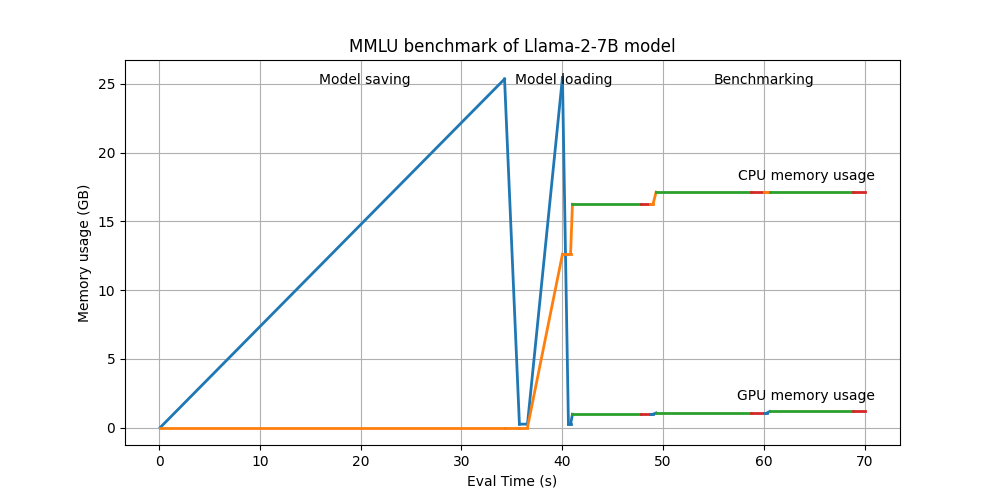
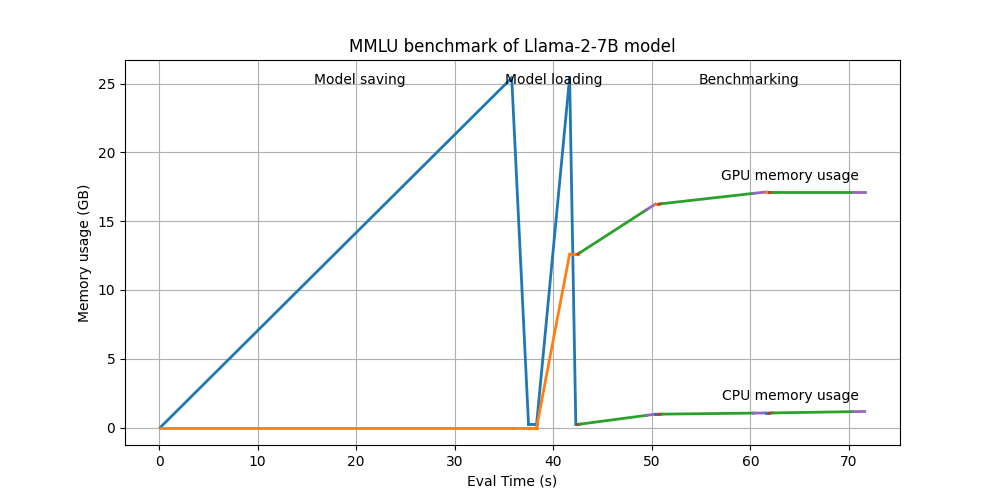
update plot

diff --git a/llava/extract_log_vqa.py b/llava/extract_log_vqa.py
@@ -6,7 +6,7 @@ def extract_originial_sentences(file_path):
         content = file.read()
         
     # Define the pattern to match the general format with a random string of varying lengths
-    pattern = r'\d{2}:\d{2}:\d{2}-\d{6} \d+\.\d+ [a-zA-Z_]+ .* \(cpu: \d+\.\d+ gpu: \d+\.\d+\) +run_mmlu\.py:\d+'
+    pattern = r'\d{2}:\d{2}:\d{2}-\d{6} \d+\.\d+ [a-zA-Z_]+ .* \(cpu: \d+\.\d+ gpu: \d+\.\d+\) +bench_vqa\.py:\d+'
     
     # Find all matches in the content
     matches = re.findall(pattern, content)
@@ -34,14 +34,14 @@ def extract_sentences(file_path):
     lines = content.split('\n')
     for line in lines:
         if 'totally take' in line:
-            pattern = r'\d{2}:\d{2}:\d{2}-\d{6} \d+\.\d+ (\w+) : totally take (\d+\.\d+) second .* \(cpu: (\d+\.\d+) gpu: (\d+\.\d+)\) +run_mmlu\.py:\d+'
-        elif 'run_mmlu' in line:
-            pattern = r'(\w){2}:\d{2}:\d{2}-\d{6} (\d+\.\d+) .* \(cpu: (\d+\.\d+) gpu: (\d+\.\d+)\) +run_mmlu\.py:\d+'
+            pattern = r'\d{2}:\d{2}:\d{2}-\d{6} \d+\.\d+ (\w+) : totally take (\d+\.\d+) second .* \(cpu: (\d+\.\d+) gpu: (\d+\.\d+)\) +bench_vqa\.py:\d+'
+        elif 'bench_vqa' in line:
+            pattern = r'(\w){2}:\d{2}:\d{2}-\d{6} (\d+\.\d+) .* \(cpu: (\d+\.\d+) gpu: (\d+\.\d+)\) +bench_vqa\.py:\d+'
         else:
             continue
         match = re.search(pattern, line)
         type_str = match.group(1)
-        mapped_value = mapping.get(type_str, 3)  # Default to -1 if not found
+        mapped_value = mapping.get(type_str, 3)  # Default to 3 if not found
         
         
         if 'totally take'  in line:
@@ -49,6 +49,7 @@ def extract_sentences(file_path):
             print("Match at index % s, % s" % (match.start(), match.end())) 
             print("Full match: % s" % (match.group(0))) 
             print("state match: % s" % (mapped_value)) 
+            print("state match: % s" % (match[2])) 
     # Define the pattern to match the general format with variations
     # pattern = r'\d{2}:\d{2}:\d{2}-\d{6} (\d+\.\d+) .* \(cpu: (\d+\.\d+) gpu: (\d+\.\d+)\) +run_mmlu\.py:\d+'
     
@@ -66,6 +67,7 @@ def extract_sentences(file_path):
         gpu_values.append(float(match[4]))
     
     return lengths, cpu_values, gpu_values, state
+
 
 def split_line(start_point, end_point,x_values):
     """
@@ -144,13 +146,12 @@ def plot_data(lengths, cpu_values, gpu_values,output_file, state):
             i = i + 3
         
         
-    plt.text(71,18,'GPU memory usage',horizontalalignment='right')
-    plt.text(71,2,'CPU memory usage',horizontalalignment='right')
+    plt.text(61,16,'GPU memory usage',horizontalalignment='right')
+    plt.text(61,2,'CPU memory usage',horizontalalignment='right')
+
     plt.text(25,25,'Model saving',horizontalalignment='right')
-
-
     plt.text(45,25,'Model loading',horizontalalignment='right')
-    plt.text(65,25,'Benchmarking',horizontalalignment='right')
+    plt.text(55,25,'Benchmarking',horizontalalignment='right')
     
     plt.xlabel('Eval Time (s)')
     plt.ylabel('Memory usage (GB)')
@@ -160,6 +161,7 @@ def plot_data(lengths, cpu_values, gpu_values,output_file, state):
 
     plt.savefig(output_file)
     plt.close()
+
 
 
 # Example usage

diff --git a/llava/bench_vqa.py b/llava/bench_vqa.py
@@ -66,13 +66,15 @@ class Logger:
 logger = Logger()
 
 class Timer:
-    def __init__(self):
+    def __init__(self, tag:str):
         self.time = []
+        self.tag = tag
         
     def start(self):
         self.temp = time.perf_counter()
     def end(self):
         self.time.append(time.perf_counter() - self.temp)
+        # logger.trace(f"{self.tag} : take {sum(self.time)} second ")
     def add(self, val:int):
         self.time.append(val)
     def result(self, msg: str):
@@ -107,9 +109,10 @@ def load_pretrained_model(model_name, update_model_file = True, use_meta_load = 
         model = LlavaForConditionalGeneration.from_pretrained(model_name)#,**kwargs)#, low_cpu_mem_usage=True, **kwargs)
         torch.save(model.state_dict(), filename)
         logger.trace('save model')
+        print(model.base_model_prefix) # model # len(model.base_model_prefix) == 0
         del model
         garbage_collect()
-    
+        
     # we use tensor parallel for loading llama
     
     if use_meta_load:
@@ -167,9 +170,9 @@ def extract_assistant_response(text):
     return ""
 
 def eval_model(args):
-    timer_encode = Timer()
-    timer_infer = Timer()
-    timer_decode = Timer()
+    timer_encode = Timer("encoding")
+    timer_infer = Timer("inference")
+    timer_decode = Timer("decoding")
 
     # Model
     disable_torch_init()
@@ -181,13 +184,13 @@ def eval_model(args):
     questions = [json.loads(q) for q in open(os.path.expanduser(args.question_file), "r")]
     questions = get_chunk(questions, args.num_chunks, args.chunk_idx)
     
+    logger.trace(f'start evaluation: {model_name}')
     run_results = {}
-
     for line in tqdm(questions):
 
         timer_encode.start()
         idx = line["question_id"]
-        if idx == 5:
+        if idx == 10:
             break
         image_file = line["image"]
         qs = line["text"]

diff --git a/llama/run_mmlu.py b/llama/run_mmlu.py
@@ -192,7 +192,7 @@ def load(ckpt_dir, model_type, update_model_file = True, use_meta_load = True):
     n_gpus = torch.cuda.device_count()
 
     assert  model_type == 'llama'
-    access_token = "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"
+    access_token = "hf_*"
     model_name = "meta-llama/Llama-2-7b-chat-hf"
     filename = './test_model.pt'
     if update_model_file:
